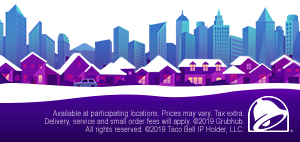
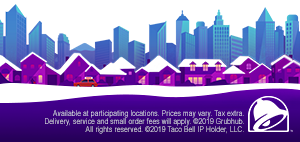
Creative update

diff --git a/app/300x250/scripts/Animation.js b/app/300x250/scripts/Animation.js
@@ -4,11 +4,17 @@ var app = app || {};
 app.Animation = (function () {
 
     var t = TweenMax;
-    var tl1 = new TimelineMax({repeat:-1, paused: true});
-    var tl2 = new TimelineMax({repeat:-1, paused: true});
-    var tl3 = new TimelineMax({repeat:-1, paused: true});
-    var tl4 = new TimelineMax({repeat:-1, paused: true});
-    var tl5 = new TimelineMax({repeat:-1, paused: true});
+    var tl1 = new TimelineMax({repeat: -1, paused: true});
+    var tl2 = new TimelineMax({repeat: -1, paused: true});
+    var tl3 = new TimelineMax({repeat: -1, paused: true});
+    var tl4 = new TimelineMax({repeat: -1, paused: true});
+    var tl5 = new TimelineMax({repeat: -1, paused: true});
+
+    var pintl1 = new TimelineMax();
+    var pintl2 = new TimelineMax();
+    var pintl3 = new TimelineMax();
+    var pintl4 = new TimelineMax();
+    var pintl5 = new TimelineMax();
 
     var tltxt = new TimelineMax();
 
@@ -31,14 +37,14 @@ app.Animation = (function () {
     function initialize() {
 
 
-
         t.set(banner, {opacity: 1});
         t.set("#container", {perspective: 600});
-        t.set(pin1, {transformOrigin: "50% 100%"});
-        t.set(pin2, {transformOrigin: "50% 100%"});
-        t.set(pin3, {transformOrigin: "50% 100%"});
-        t.set(pin4, {transformOrigin: "50% 100%"});
-        t.set(pin5, {transformOrigin: "50% 100%"});
+        t.set(pin1, {y:"-=10", transformOrigin: "50% 100%"});
+        t.set(pin2, {y:"-=10", transformOrigin: "50% 100%"});
+        t.set(pin3, {y:"-=10", transformOrigin: "50% 100%"});
+        t.set(pin4, {y:"-=10", transformOrigin: "50% 100%"});
+        t.set(pin5, {y:"-=10", transformOrigin: "50% 100%"});
+        // t.set(cta, {y:"-=10", transformOrigin: "50% 100%"});
 
         buttonExit.addEventListener('mouseover', function () {
             t.to(cta_bg, .25, {backgroundColor: "rgba(211, 78, 255, 1)"});
@@ -50,23 +56,21 @@ app.Animation = (function () {
         });
 
 
-
     }
 
     // --------------------------------------------------------------------------------------
     // Starts the animation
     function start() {
 
-        var total = 650;
+        var total = 1000;
         var container = document.getElementById("container"), w = window.innerWidth, h = window.innerHeight;
 
         for (var i = 0; i < total; i++) {
             var Div = document.createElement('div');
             t.set(Div, {
                 attr: {class: 'dot'},
-                x: R(-50, w + 50),
-                y: R(-200, -150),
-                z: R(-100, 100),
+                x: R(-100, w),
+                y: R(-100, -50),
                 opacity: R(.25, 1)
             });
             container.appendChild(Div);
@@ -74,76 +78,75 @@ app.Animation = (function () {
         }
 
         function animm(elm) {
-            t.to(elm, R(5, 6.5), {y: h, ease: Linear.easeNone, repeat: -1, delay: -15});
-            t.to(elm, R(5, 7), {x: '+=100', repeat: -1, yoyo: true, ease: Sine.easeInOut});
+            t.to(elm, R(16, 18), {y: h - 50, ease: Linear.easeNone, repeat: -1, delay: -150});
+            t.to(elm, R(16, 18), {x: '+=50', repeat: -1, yoyo: true, ease: Sine.easeInOut});
         }
 
         function R(min, max) {
             return min + Math.random() * (max - min)
         }
 
+        pintl1.from(pin1, .25, {scale:"-=.2", opacity:0, ease: Sine.easeInOut}, "+=3.5")
+            .to(pin1, .25, {y:"+=10", ease: Sine.easeIn}, "+=.2")
+            .to(pin1, .25, {y:"-=5", ease: Sine.easeOut})
+            .to(pin1, .25, {y:"+=5", ease: Sine.easeIn})
+            .to(pin1, 1, {y: "-=5", ease: Sine.easeOut, onComplete: function () {tl1.play()}});
 
-        t.from(pin1, .6, {y:"-=200",  ease: Sine.easeIn, onComplete:tl1go, delay:2.1});
-        function tl1go() {
-            tl1.play();
-        }
+        pintl2.from(pin2, .25, {scale:"-=.2", opacity:0, ease: Sine.easeInOut}, "+=3.6")
+            .to(pin2, .25, {y:"+=10", ease: Sine.easeIn}, "+=.2")
+            .to(pin2, .25, {y:"-=5", ease: Sine.easeOut})
+            .to(pin2, .25, {y:"+=5", ease: Sine.easeIn})
+            .to(pin2, 1, {y: "-=5", ease: Sine.easeOut, onComplete: function () {tl2.play()}});
 
-        t.from(pin2, .6, {y:"-=200",  ease: Sine.easeIn, onComplete:tl2go, delay:2.2});
-        function tl2go() {
-            tl2.play();
-        }
+        pintl3.from(pin3, .25, {scale:"-=.2", opacity:0, ease: Sine.easeInOut}, "+=3.7")
+            .to(pin3, .25, {y:"+=10", ease: Sine.easeIn}, "+=.2")
+            .to(pin3, .25, {y:"-=5", ease: Sine.easeOut})
+            .to(pin3, .25, {y:"+=5", ease: Sine.easeIn})
+            .to(pin3, 1, {y: "-=5", ease: Sine.easeOut, onComplete: function () {tl3.play()}});
 
-        t.from(pin3, .6, {y:"-=200",  ease: Sine.easeIn, onComplete:tl3go, delay:2.3});
-        function tl3go() {
-            tl3.play();
-        }
+        pintl4.from(pin4, .25, {scale:"-=.2", opacity:0, ease: Sine.easeInOut}, "+=3.8")
+            .to(pin4, .25, {y:"+=10", ease: Sine.easeIn}, "+=.2")
+            .to(pin4, .25, {y:"-=5", ease: Sine.easeOut})
+            .to(pin4, .25, {y:"+=5", ease: Sine.easeIn})
+            .to(pin4, 1, {y: "-=5", ease: Sine.easeOut, onComplete: function () {tl4.play()}});
 
-        t.from(pin4, .6, {y:"-=200",  ease: Sine.easeIn, onComplete:tl4go, delay:2.4});
-        function tl4go() {
-            tl4.play();
-        }
-
-        t.from(pin5, .6, {y:"-=200",  ease: Sine.easeIn, onComplete:tl5go, delay:2.5});
-        function tl5go() {
-            tl5.play();
-        }
-
-        tltxt.to(txt1, .5, {opacity:1}, "+=.5")
-            .from(txt1, .5, {scale:.8}, "-=.5")
-
-            .to(txt2, .5, {opacity:1}, "+=1")
-            .from(txt2, .5, {scale:.8}, "-=.5")
-
-            .to(txt3, .25, {opacity:1}, "+=1")
-            .from(txt3, .25, {scale:.8}, "-=.25")
-
-            .to(cta, .25, {opacity:1}, "+=.5");
+        pintl5.from(pin5, .25, {scale:"-=.2", opacity:0, ease: Sine.easeInOut}, "+=3.9")
+            .to(pin5, .25, {y:"+=10", ease: Sine.easeIn}, "+=.2")
+            .to(pin5, .25, {y:"-=5", ease: Sine.easeOut})
+            .to(pin5, .25, {y:"+=5", ease: Sine.easeIn})
+            .to(pin5, 1, {y: "-=5", ease: Sine.easeOut, onComplete: function () {tl5.play()}});
 
 
-        tl1.to(pin1, .35, {scaleX: '-=.1', scaleY:"+=.1", ease: Sine.easeInOut}, "+=.1")
-            .to(pin1, .35, {y:'-=10',  ease: Sine.easeInOut}, "-=.2")
-            .to(pin1, .35, {y:'+=10',  ease: Sine.easeInOut}, "+=.15")
-            .to(pin1, .2, {scaleX: '+=.1', scaleY:"-=.1", ease: Sine.easeInOut}, "-=.2");
 
-        tl2.to(pin2, .35, {scaleX: '-=.1', scaleY:"+=.1", ease: Sine.easeInOut}, "+=.1")
-            .to(pin2, .35, {y:'-=10',  ease: Sine.easeInOut}, "-=.2")
-            .to(pin2, .35, {y:'+=10',  ease: Sine.easeInOut}, "+=.15")
-            .to(pin2, .2, {scaleX: '+=.1', scaleY:"-=.1", ease: Sine.easeInOut}, "-=.2");
+        tltxt.to(txt1, .25, {opacity: 1}, "+=.75")
+            .fromTo(txt1, .25, {y: "-=20"}, {y: "+=23", ease: Sine.easeOut}, "-=.25")
+            .to(txt1, .1, {y: "-=3", ease: Sine.easeInOut})
 
-        tl3.to(pin3, .35, {scaleX: '-=.1', scaleY:"+=.1", ease: Sine.easeInOut}, "+=.1")
-            .to(pin3, .35, {y:'-=10',  ease: Sine.easeInOut}, "-=.2")
-            .to(pin3, .35, {y:'+=10',  ease: Sine.easeInOut}, "+=.15")
-            .to(pin3, .2, {scaleX: '+=.1', scaleY:"-=.1", ease: Sine.easeInOut}, "-=.2");
+            .to(txt2, .25, {opacity: 1}, "+=1.25")
+            .fromTo(txt2, .25, {y: "-=20"}, {y: "+=23", ease: Sine.easeOut}, "-=.25")
+            .to(txt2, .1, {y: "-=3", ease: Sine.easeInOut})
 
-        tl4.to(pin4, .35, {scaleX: '-=.1', scaleY:"+=.1", ease: Sine.easeInOut}, "+=.1")
-            .to(pin4, .35, {y:'-=10',  ease: Sine.easeInOut}, "-=.2")
-            .to(pin4, .35, {y:'+=10',  ease: Sine.easeInOut}, "+=.15")
-            .to(pin4, .2, {scaleX: '+=.1', scaleY:"-=.1", ease: Sine.easeInOut}, "-=.2");
+            .to(txt3, .25, {opacity: 1}, "+=1")
 
-        tl5.to(pin5, .35, {scaleX: '-=.1', scaleY:"+=.1", ease: Sine.easeInOut}, "+=.1")
-            .to(pin5, .35, {y:'-=10',  ease: Sine.easeInOut}, "-=.2")
-            .to(pin5, .35, {y:'+=10',  ease: Sine.easeInOut}, "+=.15")
-            .to(pin5, .2, {scaleX: '+=.1', scaleY:"-=.1", ease: Sine.easeInOut}, "-=.2");
+            .to(cta, .25, {opacity: 1}, "+=1.5")
+            .fromTo(cta, .25, {y: "-=20"}, {y: "+=23", ease: Sine.easeOut}, "-=.25")
+            .to(cta, .2, {y: "-=3", ease: Sine.easeInOut});
+
+
+        tl1.to(pin1, 1, {y: '+=5', ease: Sine.easeInOut})
+            .to(pin1, 1, {y: '-=5', ease: Sine.easeInOut});
+
+        tl2.to(pin2, 1, {y: '+=5', ease: Sine.easeInOut})
+            .to(pin2, 1, {y: '-=5', ease: Sine.easeInOut});
+
+        tl3.to(pin3, 1, {y: '+=5', ease: Sine.easeInOut})
+            .to(pin3, 1, {y: '-=5', ease: Sine.easeInOut});
+
+        tl4.to(pin4, 1, {y: '+=5', ease: Sine.easeInOut})
+            .to(pin4, 1, {y: '-=5', ease: Sine.easeInOut});
+
+        tl5.to(pin5, 1, {y: '+=5', ease: Sine.easeInOut})
+            .to(pin5, 1, {y: '-=5', ease: Sine.easeInOut});
 
 
     }

diff --git a/app/300x250/styles/_layout.scss b/app/300x250/styles/_layout.scss
@@ -17,11 +17,11 @@ body {
     opacity:0;
 
     .dot{
-        width:3px;
-        height:3px;
-        border-radius: 1.5px;
+        width:4px;
+        height:4px;
+        border-radius: 2px;
         background: #FFF;
-        transform: translate3d(0, 0, 0.1px);
+        //transform: translate3d(0, 0, 0.1px);
         position:absolute;
     }
 
@@ -105,6 +105,7 @@ body {
 
         #cta_img {
             z-index: 2;
+            transform: translate3d(0, 0, 0.1px);
             position: absolute;
         }
         #cta_bg {

diff --git a/app/300x250/index.html b/app/300x250/index.html
@@ -2,7 +2,7 @@
 <html lang="">
 <head>
     <meta charset="utf-8">
-    <title>TB_Delivery_Rain</title>
+    <title>TB_Delivery_Snow</title>
     <meta name="description" content="">
     <meta name="viewport" content="width=device-width, initial-scale=1">
     <meta name="ad.size" content="width=300,height=250">
